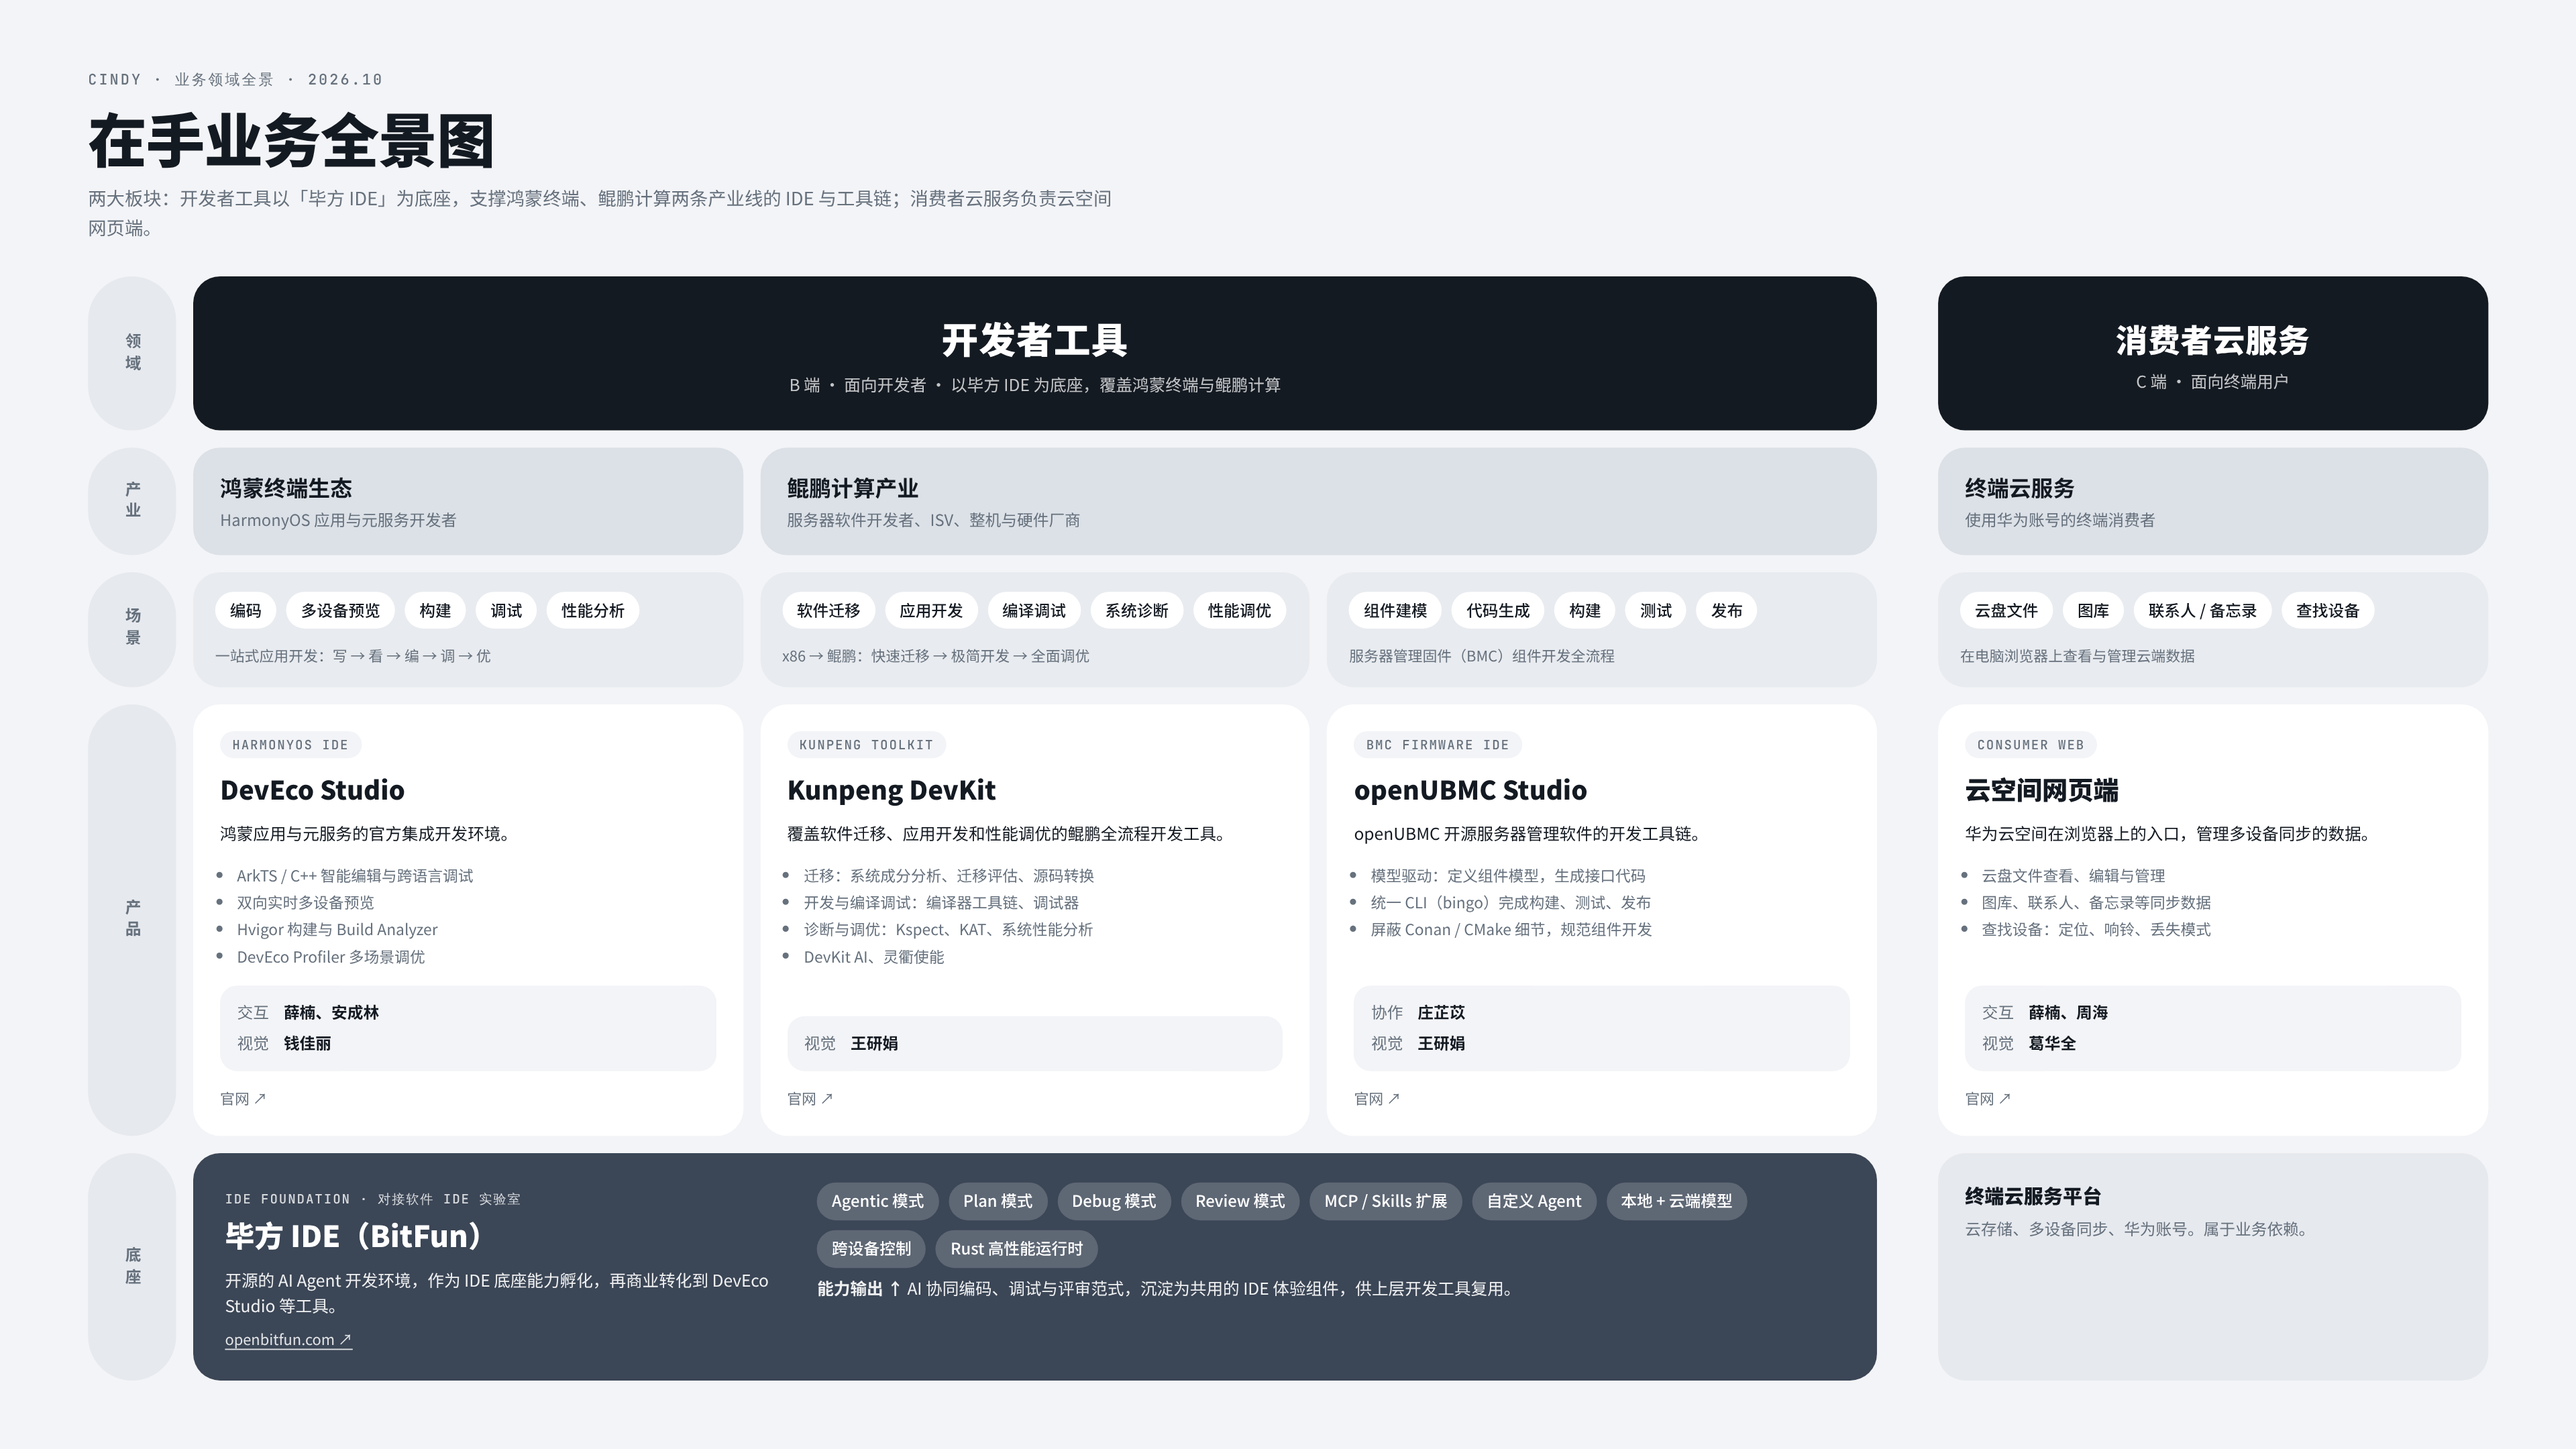
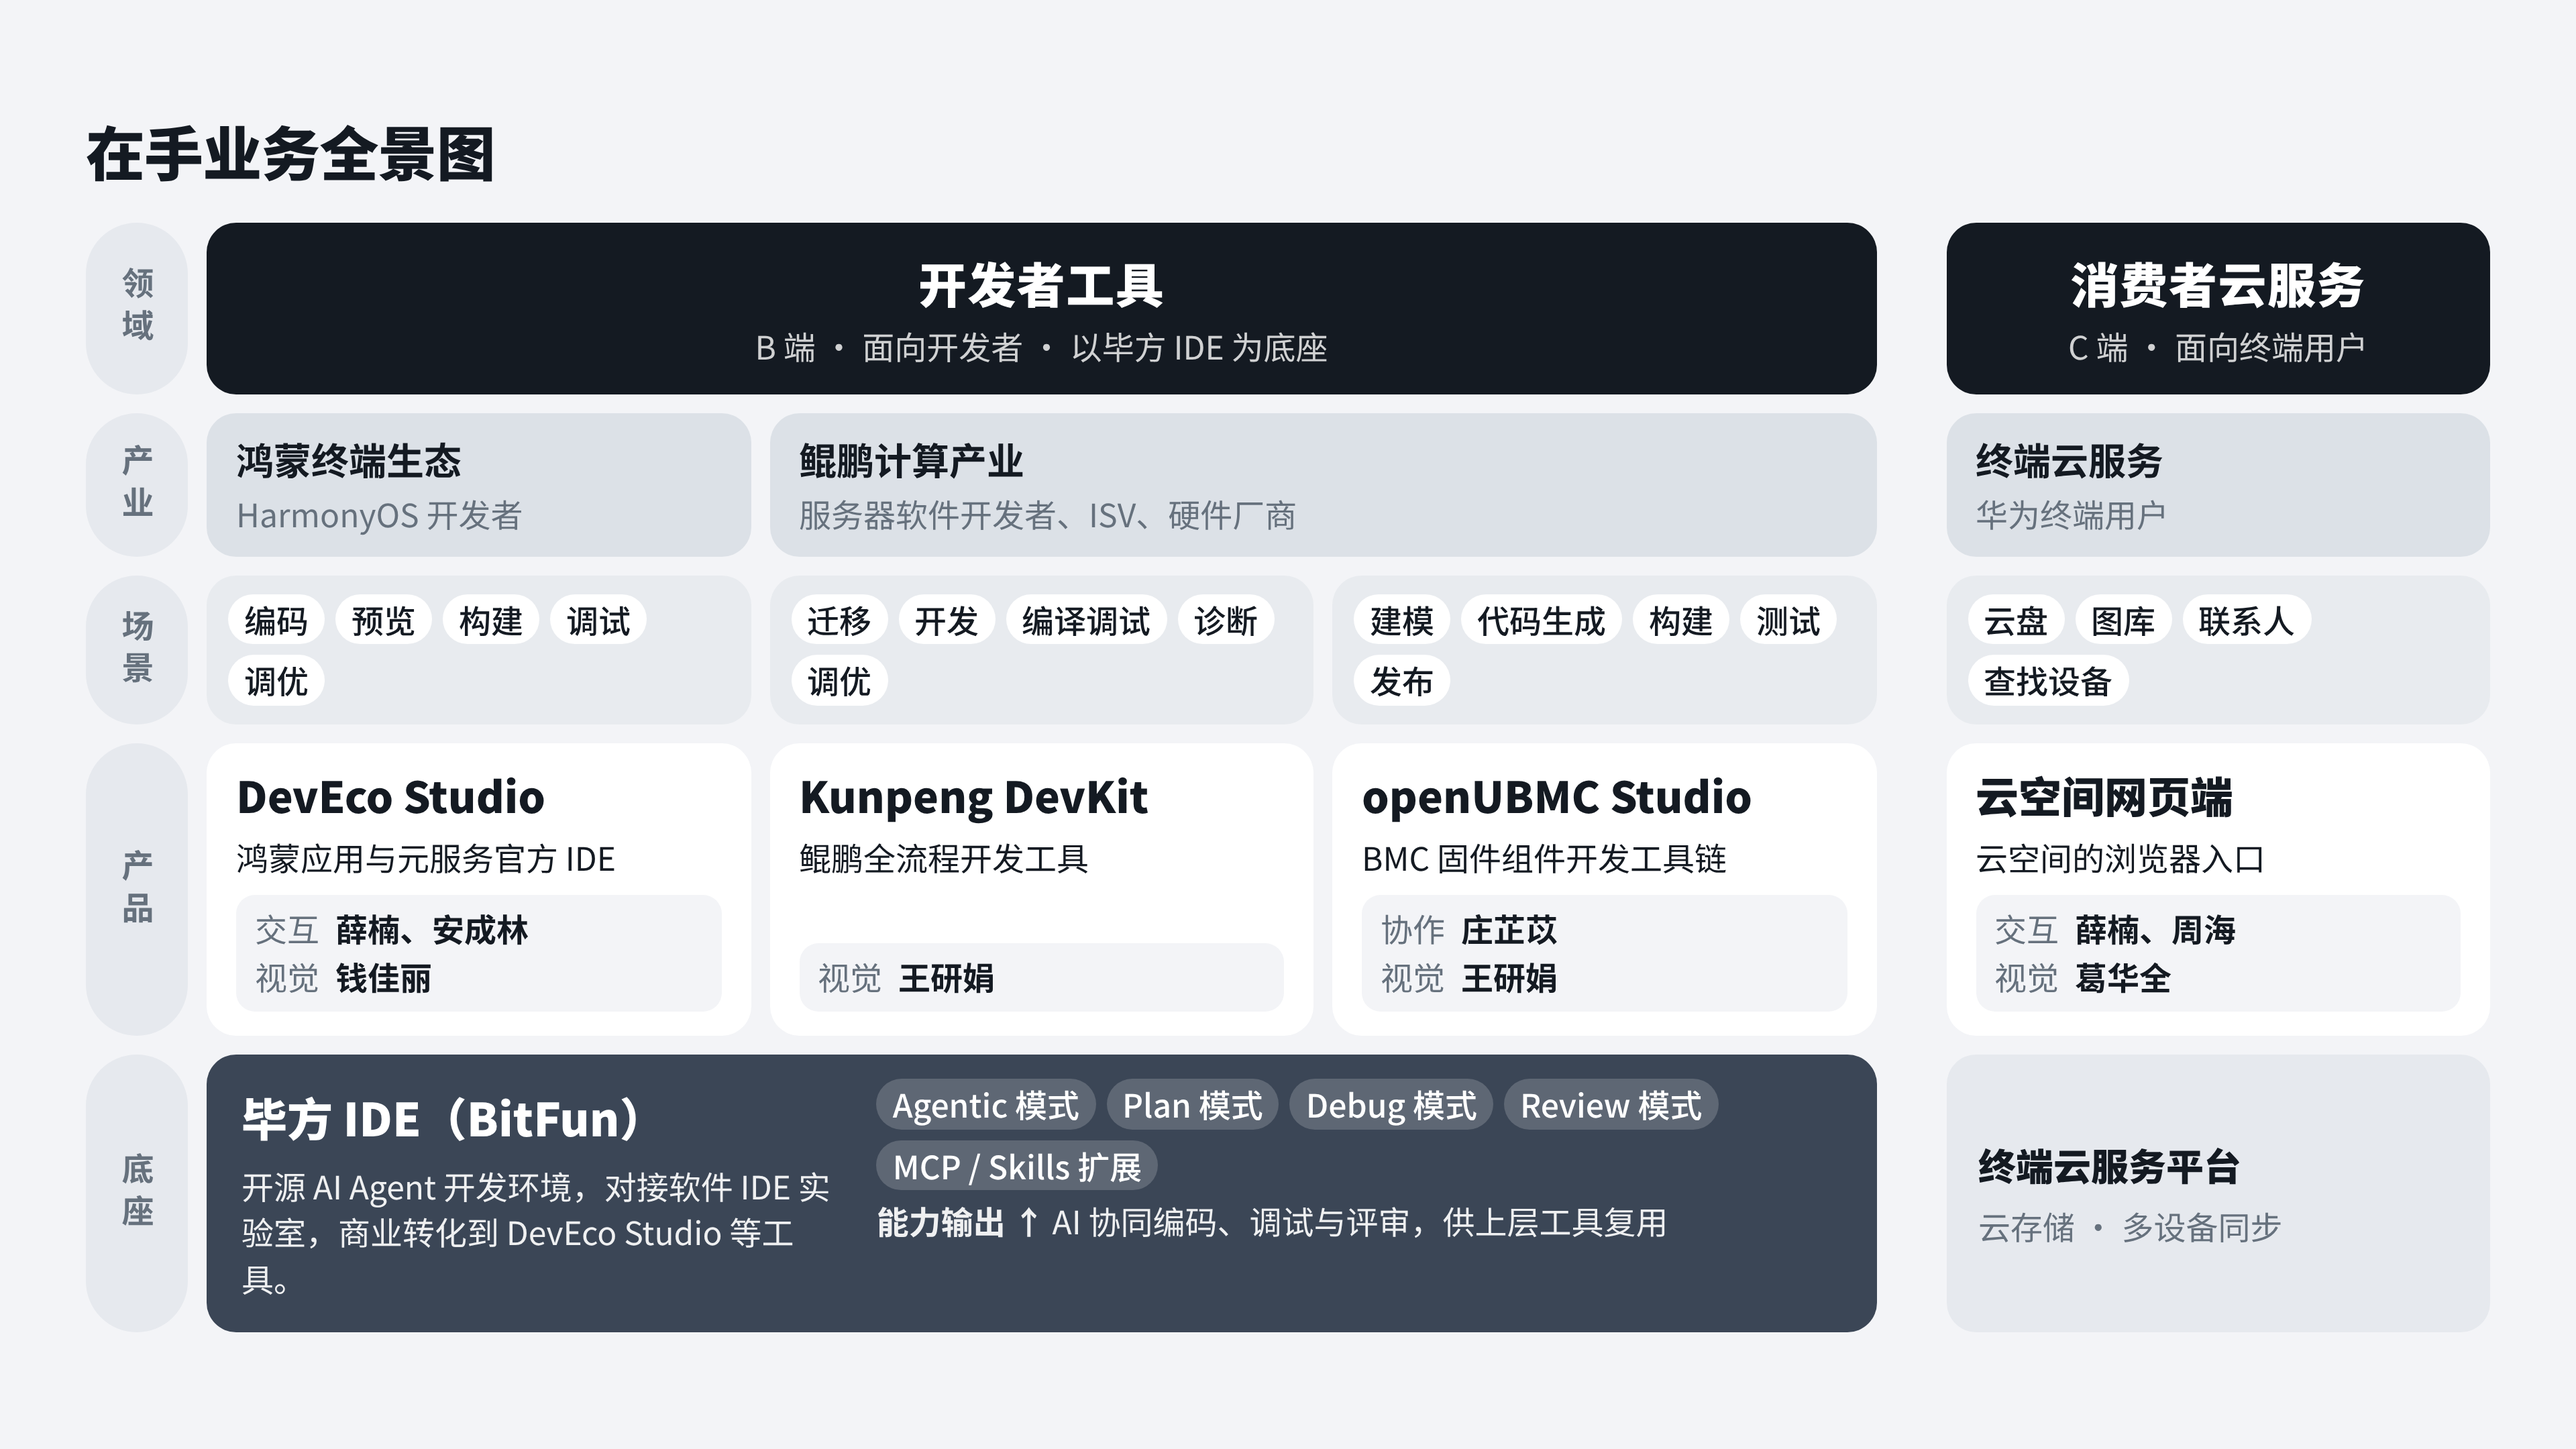
全景图 16:9 版精简内容，最小字号 24px（1920 画布）
附出图脚本 site/tools/slide-16x9.js

Claude-Session: https://claude.ai/code/session_016L8byhbgGDrMXiHgMPJmHg

diff --git a/site/tools/slide-16x9.js b/site/tools/slide-16x9.js
@@ -1,0 +1,50 @@
+const {chromium}=require('playwright');
+const CSS=`
+.matrix,header p,.eyebrow,.room a,.found a,.scn .flow,.room ul,.room .tag,.found .tag,.dep span.x{display:none!important}
+html,body{width:1920px;height:1080px;overflow:hidden;margin:0;padding:0!important}
+.wrap{max-width:none;width:1920px;padding:40px 64px;box-sizing:border-box;gap:28px;height:1080px;justify-content:center}
+header h1{font-size:44px}
+.house{grid-template-columns:76px repeat(3,minmax(0,1fr)) 24px minmax(0,1fr);gap:14px}
+.lab{font-size:24px;letter-spacing:.3em}
+.roof{padding:16px 28px}
+.roof h2{font-size:36px!important;margin:0}
+.roof p{font-size:24px;opacity:.8}
+.ind{padding:12px 22px}
+.ind b{font-size:28px}
+.ind span{font-size:24px}
+.scn{padding:14px 16px;gap:8px}
+.chip{font-size:24px;padding:2px 12px;line-height:1.4}
+.room{padding:18px 22px;gap:10px}
+.room h3{font-size:32px}
+.room .pos{font-size:24px;line-height:1.45}
+.team{font-size:24px;padding:8px 14px;gap:2px 12px;line-height:1.45}
+.found{padding:18px 26px;gap:24px;grid-template-columns:minmax(0,1fr) minmax(0,1.6fr)}
+.found h3{font-size:34px}
+.found p{font-size:24px;line-height:1.45}
+.out{font-size:24px}
+.caps .chip.x{display:none}
+.dep{padding:22px 24px;font-size:24px;display:flex;flex-direction:column;justify-content:center}.dep b{font-size:28px}
+`;
+(async()=>{const b=await chromium.launch();const p=await b.newPage({viewport:{width:1920,height:1080},deviceScaleFactor:2});
+await p.goto('file:///home/user/-/'+encodeURI('业务全景图/在手业务全景图.html'));await p.waitForTimeout(1200);
+await p.addStyleTag({content:CSS});
+// keep only a few foundation chips
+await p.evaluate(()=>{const keep=['Agentic 模式','Plan 模式','Debug 模式','Review 模式','MCP / Skills 扩展'];document.querySelectorAll('.found .chip').forEach(c=>{if(!keep.includes(c.textContent))c.classList.add('x')});
+ const out=document.querySelector('.out'); if(out) out.innerHTML='<b>能力输出 ↑</b> AI 协同编码、调试与评审，供上层工具复用';
+ const fp=document.querySelector('.found p'); if(fp) fp.textContent='开源 AI Agent 开发环境，对接软件 IDE 实验室，商业转化到 DevEco Studio 等工具。';
+ const cons=document.querySelector('.roof.cons p'); if(cons) cons.textContent='C 端 · 面向终端用户';
+ const dev=document.querySelector('.roof.dev p'); if(dev) dev.textContent='B 端 · 面向开发者 · 以毕方 IDE 为底座';
+});
+await p.evaluate(()=>{
+ const T=(sel,txt)=>{const e=document.querySelector(sel); if(e) e.textContent=txt;};
+ const inds=document.querySelectorAll('.ind span'); ['HarmonyOS 开发者','服务器软件开发者、ISV、硬件厂商','华为终端用户'].forEach((t,i)=>inds[i]&&(inds[i].textContent=t));
+ const sc=[['编码','预览','构建','调试','调优'],['迁移','开发','编译调试','诊断','调优'],['建模','代码生成','构建','测试','发布'],['云盘','图库','联系人','查找设备']];
+ document.querySelectorAll('.scn').forEach((el,i)=>{el.innerHTML=sc[i].map(t=>'<span class="chip">'+t+'</span>').join('')});
+ const pos=['鸿蒙应用与元服务官方 IDE','鲲鹏全流程开发工具','BMC 固件组件开发工具链','云空间的浏览器入口'];
+ document.querySelectorAll('.room .pos').forEach((e,i)=>e.textContent=pos[i]);
+ const d=document.querySelector('.dep'); d.innerHTML='<b>终端云服务平台</b><span>云存储 · 多设备同步</span>';
+});
+await p.waitForTimeout(400);
+const r=await p.evaluate(()=>{let min=99,who='';document.querySelectorAll('body *').forEach(e=>{if(!e.offsetParent&&e.tagName!=='BODY')return;const t=[...e.childNodes].some(n=>n.nodeType===3&&n.textContent.trim());if(!t)return;const f=parseFloat(getComputedStyle(e).fontSize);if(f<min){min=f;who=e.className+':'+e.textContent.slice(0,20)}});return {h:document.querySelector('.wrap').scrollHeight,min,who}});
+console.log(r);
+await p.screenshot({path:process.argv[2]});await b.close()})();
